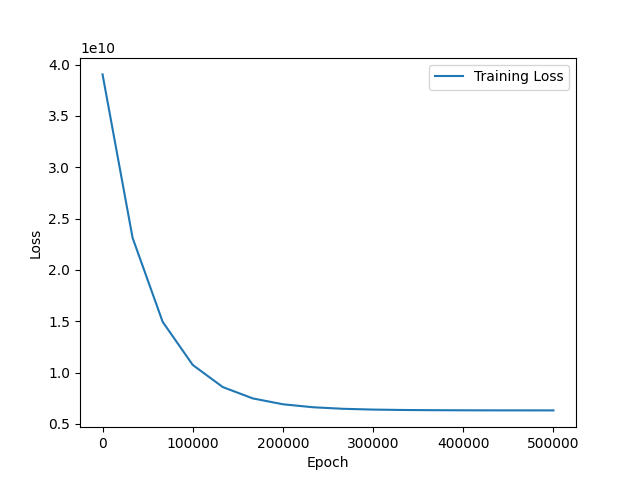
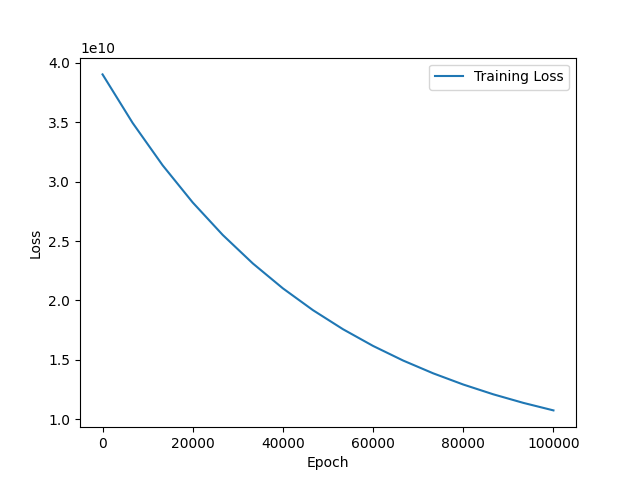
house-prices: E99990 L10737740800.0 refactor y_train out of pipeline, lower epochs TEMP

diff --git a/house_prices/house.py b/house_prices/house.py
@@ -29,9 +29,13 @@ INPUTS = [
 if "LotFrontage" in INPUTS:
     MEDIAN_LOT_FRONTAGE = train_data["LotFrontage"].median().item()
 
+y_train = torch.tensor(train_data[["SalePrice"]].to_numpy(), dtype=torch.float32)
+assert y_train is not None
+assert type(y_train) == torch.Tensor
+print(f"{y_train.size()=}")
+
 
 def pipeline(df: pd.DataFrame) -> torch.Tensor:
-    y_train = torch.tensor(df[["SalePrice"]].to_numpy(), dtype=torch.float32)
     X_train = df[INPUTS].copy()
     if "LotFrontage" in INPUTS:
         X_train.fillna(MEDIAN_LOT_FRONTAGE, inplace=True)
@@ -42,15 +46,13 @@ def pipeline(df: pd.DataFrame) -> torch.Tensor:
     assert X_train.isna().any().any() == False
     X_train = torch.tensor(X_train.to_numpy(), dtype=torch.float32)
     print(X_train)
-    print(f"{y_train.size()=}", f"{X_train.size()=}")
+    print(f"{X_train.size()=}")
     assert X_train is not None
-    assert y_train is not None
     assert type(X_train) == torch.Tensor
-    assert type(y_train) == torch.Tensor
-    return y_train, X_train
+    return X_train
 
 
-y_train, X_train = pipeline(train_data)
+X_train = pipeline(train_data)
 
 
 class MLP(nn.Module):
@@ -74,7 +76,7 @@ epochs, losses = [], []
 best_loss = float("inf")
 best_epoch = 0
 
-EPOCHS = 500000
+EPOCHS = 100000
 PATIENCE = 0
 CHECKPOINTS = 15
 for epoch in range(EPOCHS):
@@ -95,9 +97,9 @@ for epoch in range(EPOCHS):
     if epoch % (EPOCHS // CHECKPOINTS) == 0:
         epochs.append(epoch)
         losses.append(loss.item())
-        print(f"house-prices: L{loss.item()}")
+        print(f"house-prices: E{epoch} L{loss.item()}")
 
-print(f"{best_loss=}", f"{best_epoch=}")
+print(f"{best_epoch=}", f"{best_loss=}")
 
 submission = pd.DataFrame()
 submission["Id"] = test_data.Id
